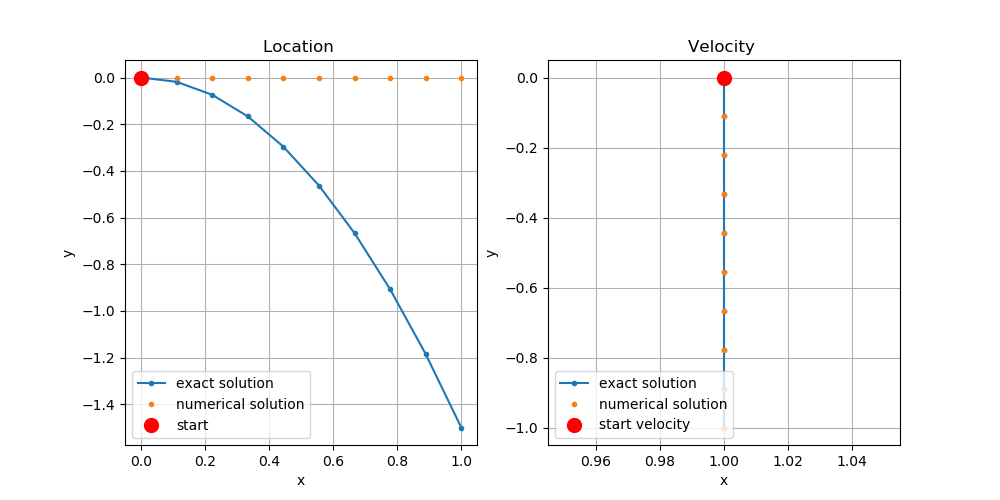
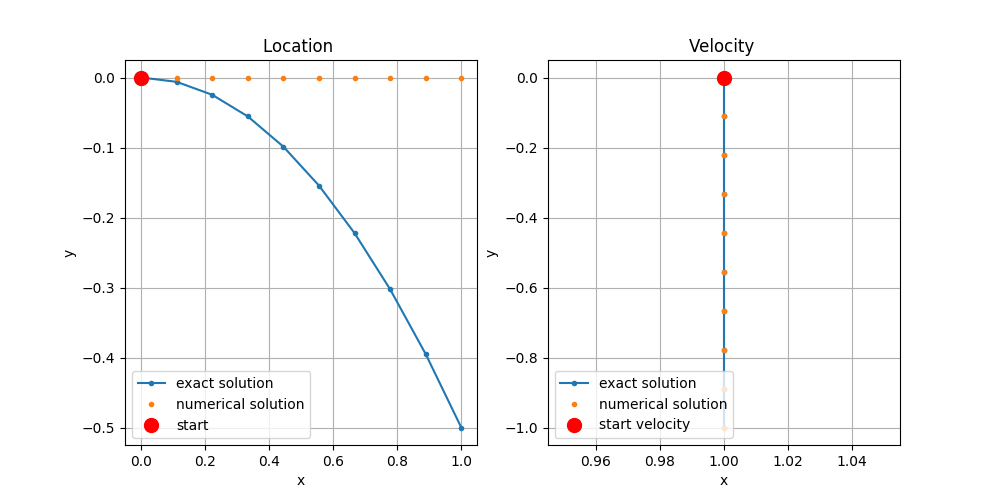
fix issue for u random init

diff --git a/hw2.py b/hw2.py
@@ -49,10 +49,9 @@ def compare_solutions(x, u, title=''):
 
     plt.clf()
 
-n_agents=2
-nx_system=4
 
-def order_of_accuracy_test(r,dt,type='base'):
+
+def order_of_accuracy_test(r,dt,iterations=8, type='base'):
     # r: mesh refinement factor
     # dt: initial time step
     error_norm1=[]
@@ -63,8 +62,8 @@ def order_of_accuracy_test(r,dt,type='base'):
     x=init(n_agents,nx_system, type=type)
     # u=np.array([0.,-1]).reshape(1,2)
     # random generate u in the range of -100 to 100
-    u=np.random.rand(1,2)
-    for _ in range(6):
+    u=np.random.rand(n_agents,2)
+    for _ in range(iterations):
         x_axis.append(dt)
         x_exact = exact_solution_state(x, u, dt)
         x_numerical = numerical_solution_state(x, u, dt)
@@ -117,6 +116,11 @@ def order_of_accuracy_test(r,dt,type='base'):
     plt.grid()
     plt.savefig('./test_error.png')
 
+# fix the random seed
+np.random.seed(0)
+n_agents=2
+nx_system=4
+
 # compare the base initialization condition. the result should be a parabola
 x=init(n_agents,nx_system, type='base')
 u=np.array([0.,-1]).reshape(1,2)
@@ -127,4 +131,4 @@ x=init(n_agents,nx_system, type='random')
 u=np.random.rand(n_agents,2)
 compare_solutions(x, u, 'random_initialization')
 
-order_of_accuracy_test(2,0.1,'random')
+order_of_accuracy_test(2, 1.0, 14,'random')

diff --git a/utils.py b/utils.py
@@ -16,24 +16,31 @@ def exact_solution_state(x, u, t):
     # u is constant
     # deep copy the state
     x=copy.deepcopy(x)
-    x[:,2:4] = x[:,2:4] + u*t
     x[:,0:2] = x[:,0:2] + x[:,2:4]*t + (1/2)*u*t**2
+    x[:,2:4] = x[:,2:4] + u*t
+    
     return x
 
 def numerical_solution_state(x, u, dt):
-    # update the state using numerical solution
+    # update the state using numerical solution, submitted in HW2
     # u is constant
     # x is iterativly updated
     x_new=copy.deepcopy(x)
-    x_new[:, 2:] = x[:, 2:] + u*dt
     x_new[:, :2] = x[:, :2]+  x[:, 2:]*dt
+    x_new[:, 2:] = x[:, 2:] + u*dt
     
-    # x[:, :2] += u*dt
-    
-    # x[:, :2] += x[:, 2:]*dt
-    # x[:, :2] += u*dt*dt*0.5
-    # x[:, 2:] += u*dt
     return x_new
+
+def numerical_solution_state1(x, u, dt):
+    # update the state using numerical solution
+    # u is constant
+    # x is iterativly updated
+    x=copy.deepcopy(x)
+    x[:, :2] += x[:, 2:]*dt
+    x[:, :2] += u*dt*dt*0.5
+    x[:, 2:] += u*dt
+    
+    return x
 
 def potential_grad(pos_diff, r2):
     """
